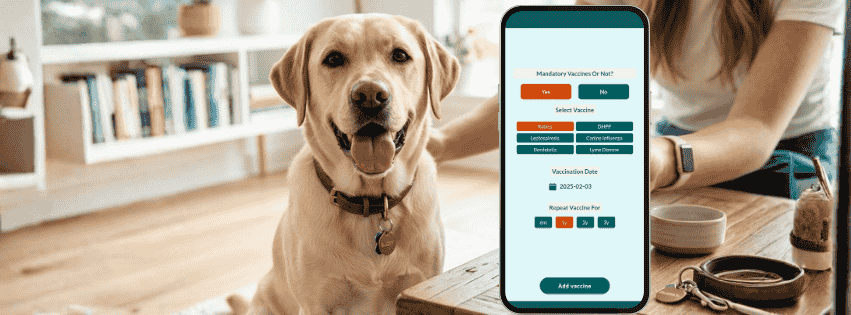
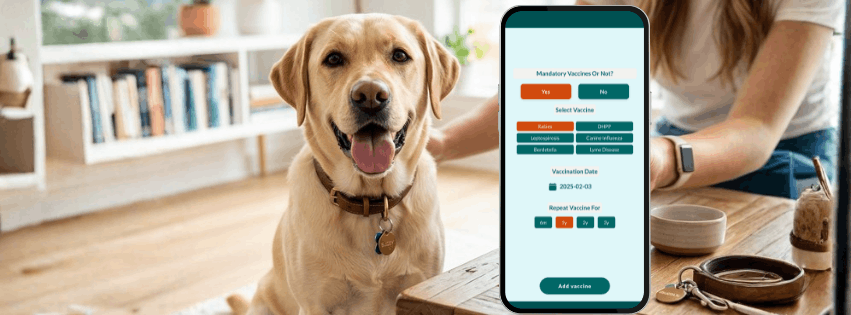
docs: update images README and dog vaccine cover image

diff --git a/posts/images/README.md b/posts/images/README.md
@@ -11,3 +11,8 @@
 ## Post: How to tell if your dog is at the right weight
 - `dog_weight/cover.png` – naslovna slika
 - `dog_weight/second-image.png` – slika za praćenje težine psa
+
+## Post: The Ultimate Guide to Pet Care Apps
+- `pet-care-apps/cover.png` – naslovna slika
+- `pet-care-apps/second-image.png` – slika za deljenje medicinskih podataka putem PDF-a
+- `pet-care-apps/infographic.png` – 3D infografik: poredjenje Vet Record aplikacije sa ostalim tipovima aplikacija
